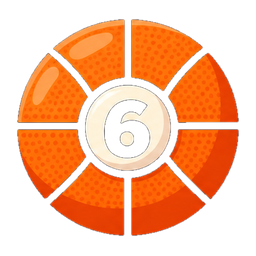
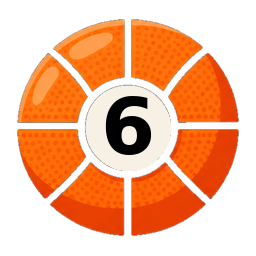
Add files via upload
Added icons to all pages

Changed region(s): [[0.4062, 0.375, 0.6875, 0.6875], [0.375, 0.5938, 0.4062, 0.625]]

diff --git a/index.html b/index.html
@@ -87,18 +87,21 @@
     .team-link{
       position:absolute;
       right:16px;
-      top:calc(28px + env(safe-area-inset-top));
+      top:calc(24px + env(safe-area-inset-top));
       z-index:3;
+      width:50px;
+      height:50px;
       border:1px solid #3b3b3b;
       background:#0e0e0e;
       color:#fff;
-      border-radius:999px;
-      padding:9px 11px;
-      font-size:11px;
-      font-weight:900;
-      letter-spacing:.04em;
-      text-transform:uppercase;
+      border-radius:50%;
+      padding:4px;
+      display:grid;
+      place-items:center;
+      overflow:hidden;
     }
+    .team-link .sport-icon{width:40px;height:40px;flex-basis:40px}
+    .team-link .sport-icon-img{width:40px;height:40px;object-fit:contain;display:block}
 
     .content{padding:18px 18px 28px;background:#fff;position:relative;z-index:1}
     .section-kicker{display:flex;align-items:center;gap:9px;color:var(--red);font-size:17px;font-weight:950;text-transform:uppercase;letter-spacing:.03em;margin:3px 0 14px}
@@ -525,6 +528,8 @@ function renderViewMode(){
   const isFans=state.appView==='fans';
   document.getElementById('myTeamViewBtn')?.classList.toggle('active',!isFans);
   document.getElementById('fansViewBtn')?.classList.toggle('active',isFans);
+  const teamQuick=document.getElementById('teamQuick');
+  if(teamQuick) teamQuick.style.display=isFans?'none':'grid';
   document.querySelectorAll('.bottom .navbtn').forEach(b=>b.style.display=isFans?'none':'');
   document.getElementById('home')?.classList.toggle('active',!isFans);
   document.getElementById('schedule')?.classList.remove('active');
@@ -673,7 +678,12 @@ async function renderFansHome(){
 }
 
 function render(){
-  $('#teamQuick').textContent=shortTeam();
+  const teamQuick=$('#teamQuick');
+  if(teamQuick){
+    teamQuick.innerHTML=sportIconMarkup(state.selected,true);
+    teamQuick.setAttribute('aria-label',`Choose team. Current team: ${selectedLabel()}`);
+    teamQuick.setAttribute('title',selectedLabel());
+  }
   if(!state.payload){state.payload=staticPayload(state.selected)}
   renderHome();renderSchedule();renderStandings();renderTeams();
 }

diff --git a/sw.js b/sw.js
@@ -1,4 +1,4 @@
-const CACHE='graham-fans-v3';
+const CACHE='graham-fans-v5';
 const ASSETS=['./','./index.html','./static-schedules.js','./manifest.webmanifest','./assets/graham-bears-logo.png','./assets/icon-192.png','./assets/icon-512.png','./assets/sports/basketball-6.png','./assets/sports/basketball-7.png','./assets/sports/basketball-8.png','./assets/sports/softball.png','./assets/sports/xc.png'];
 self.addEventListener('install',e=>{self.skipWaiting();e.waitUntil(caches.open(CACHE).then(c=>c.addAll(ASSETS)))});
 self.addEventListener('activate',e=>e.waitUntil(Promise.all([self.clients.claim(),caches.keys().then(keys=>Promise.all(keys.filter(k=>k!==CACHE).map(k=>caches.delete(k))))])));

diff --git a/README.md b/README.md
@@ -157,3 +157,11 @@ The Graham Fans view now uses image assets stored in `assets/sports/`:
 - `xc.png`
 
 To update their appearance later, replace those PNG files and keep the filenames the same.
+
+
+## Icon tweak
+Updated `assets/sports/basketball-6.png` and `assets/sports/basketball-7.png` so the numbers are solid black like the 8 icon. Service worker cache bumped to `graham-fans-v4`.
+
+
+## My Team header icon
+The upper-right team control in My Team mode now shows the selected team's sport icon rather than a text abbreviation. The control is hidden in Graham Fans mode.
